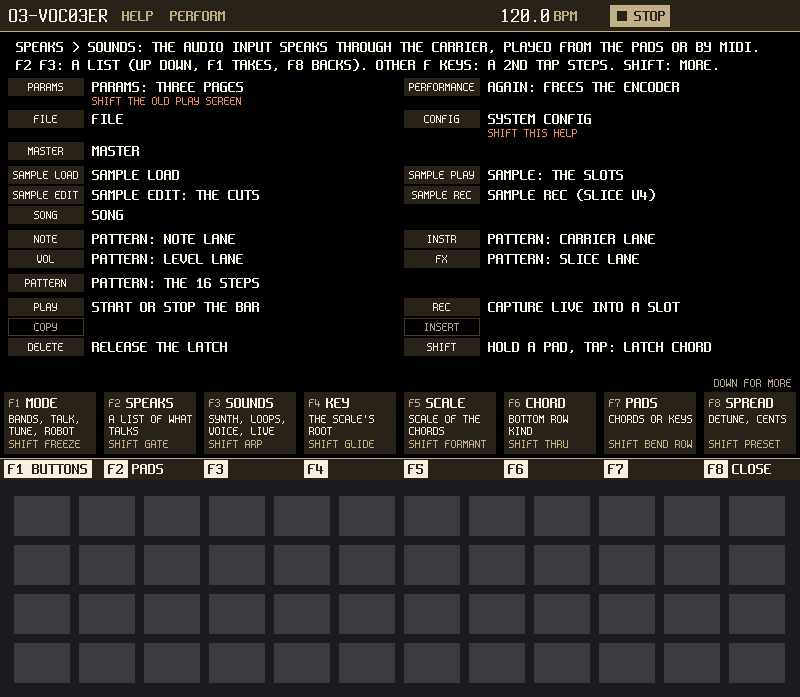
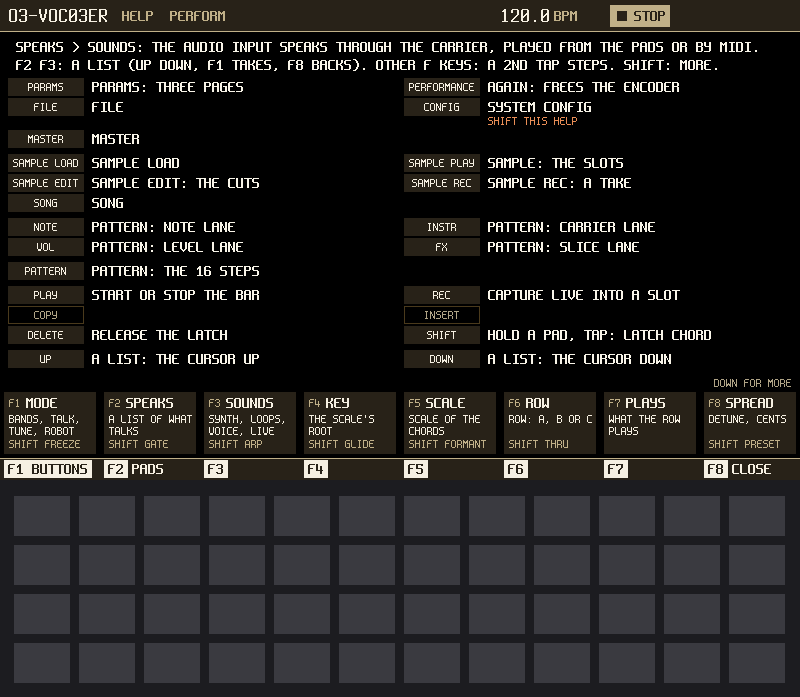
docs: the pads layout in the manual and UI-DESIGN, the manual's PERFORM image (Q9)

diff --git a/app/src/sample_rec_screen.cpp b/app/src/sample_rec_screen.cpp
@@ -455,7 +455,7 @@ void SampleRecScreen::help(const app::Context& ctx, app::Help& h) const noexcept
     }
   }
   h.summary = "REC ARMS AT THE NEXT BAR LINE; REC AGAIN OR THE LENGTH ENDS IT AT A BAR.\n"
-              "THE TAKE LOOPS WHERE AFTER SAYS. THE PADS PLAY CHORDS UNDER IT.";
+              "THE TAKE LOOPS WHERE AFTER SAYS. THE PADS PLAY PERFORM'S LAYOUT.";
   h.fkey[0] = "THE INPUT SOURCE";
   h.fkey[1] = "INPUT GAIN";
   h.fkey[2] = "FREE, 1 TO 8 BARS";
@@ -655,7 +655,7 @@ void SampleRecScreen::draw(app::Context& ctx, ui::Renderer& r, const ui::Rect&) 
   if (note_ != nullptr) {
     r.text(96, 346, note_, Color::Accent, Face::Label);
   }
-  r.text(96, 384, "PADS: THE CHORDS OF PERFORM", Color::TextDim, Face::Micro);
+  r.text(96, 384, "PADS: PERFORM'S LAYOUT", Color::TextDim, Face::Micro);
 }
 
 }  // namespace o3_voc03er

diff --git a/app/src/params_screen.cpp b/app/src/params_screen.cpp
@@ -171,7 +171,7 @@ void ParamsScreen::help(const app::Context& ctx, app::Help& h) const noexcept {
     }
   }
   h.summary = "THREE PAGES OF EIGHT VALUES: CARRIER, SHAPE, TUNE. PARAMS OR UP AND DOWN\n"
-              "TURN THE PAGE. A DIM KEY DOES NOTHING IN THIS MODE. THE PADS PLAY CHORDS.";
+              "TURN THE PAGE. A DIM KEY DOES NOTHING IN THIS MODE. THE PADS PLAY PERFORM'S LAYOUT.";
   for (unsigned i = 0; i < app::kFKeyCount; ++i) {
     h.fkey[i] = pr::focusable(page_, i) ? "TAP: FOCUS, THEN STEP" : nullptr;  // a blank key has no row
   }

diff --git a/docs/UI-DESIGN.md b/docs/UI-DESIGN.md
@@ -79,10 +79,10 @@ with SHIFT all of it; REC always records; PLAY is always the transport.
 | REC | PERFORM: capture (section 2). SAMPLE REC: start the take at the bar, again to stop at the bar. SAMPLE and SAMPLE EDIT: arm the selected slot (SAMPLE REC opens armed). PATTERN: write arm, the pads record into the step under the playhead | all but the lists |
 | COPY | PATTERN: copies the step under the cursor (SHIFT: the whole pattern). SAMPLE EDIT: copies the slot, sample and cuts, to the next empty slot (F1 confirms) | PATTERN, SAMPLE EDIT |
 | INSERT | PATTERN: pastes the copied step at the cursor, the rest moving right (SHIFT: pastes the pattern). SAMPLE EDIT: inserts a cut at the cursor | PATTERN, SAMPLE EDIT |
-| DELETE | What the cursor is on: PATTERN the step (SHIFT: the pattern); SAMPLE EDIT the cut at the cursor (SHIFT: the slot's sample, F1 confirms); PERFORM the latched chord; SAMPLE every sounding slice (SHIFT: and the latched chord); SAMPLE REC the take just made; the lists nothing, dimmed in HELP | as listed |
-| SHIFT | Held: with a pad latches it (a chord stays while the hands leave); with the encoder coarse steps; with DELETE, COPY, INSERT their whole-object form; with CONFIG HELP. Four combinations and the kit's two, no more | everywhere |
-| UP / DOWN | Which: the slot (SAMPLE, SAMPLE EDIT, SAMPLE REC), the row (FILE, SAMPLE LOAD, SONG), the page (PARAMS, MASTER); on PERFORM the chord type of the bottom row (section 7); on PATTERN the octave (PERFORM's and SAMPLE's) | everywhere |
-| LEFT / RIGHT | Where: the octave of the keys or the chord grid (PERFORM, SAMPLE, PATTERN); the cursor's step (PATTERN); the previous or next cut (SAMPLE EDIT); the take's length (SAMPLE REC); a page of rows (the lists). Held, they repeat (`repeat_buttons`) | everywhere |
+| DELETE | What the cursor is on: PATTERN the step (SHIFT: the pattern); SAMPLE EDIT the cut at the cursor (SHIFT: the slot's sample, F1 confirms); PERFORM the latched pad; SAMPLE REC the take just made; the lists nothing, dimmed in HELP | as listed |
+| SHIFT | Held: on PERFORM, with a pad latches it (a note or chord stays while the hands leave); on SAMPLE, SHIFT + F1 is ROW; with the encoder coarse steps; with DELETE, COPY, INSERT their whole-object form; with CONFIG HELP. Four combinations and the kit's two, no more | everywhere |
+| UP / DOWN | Which: the slot (SAMPLE, SAMPLE EDIT, SAMPLE REC), the row (FILE, SAMPLE LOAD, SONG), the page (PARAMS, MASTER); on PERFORM only a picker's cursor; on PATTERN the octave (PERFORM's and SAMPLE's) | everywhere |
+| LEFT / RIGHT | Where: the octave of the pads (PERFORM, SAMPLE, PATTERN); the cursor's step (PATTERN); the previous or next cut (SAMPLE EDIT); the take's length (SAMPLE REC); a page of rows (the lists). Held, they repeat (`repeat_buttons`) | everywhere |
 | Encoder | The latched F value; in a list the row; in SAMPLE EDIT the cursor, a sample fine, SHIFT coarse (a 64th of the sample) | everywhere |
 
 ## 4. The screens
@@ -94,7 +94,7 @@ explains it: a row for every button the screen answers (a button with no row dra
 
 Left, SPEAKS: the source chip (LIVE with its name, or SLOT n), a vertical IN meter with a CLIP lamp, the capture chip ("REC: CAPTURE MIC > SLOT 2").
 Middle: the voiceprint with the MODE word over it. Right, SOUNDS: the carrier chip, the chord being played in big type ("Dm7", "C5") with its
-notes as blue tiles, the OUT meter. Under all of it a drawing of the pads as they are now: the chord grid or the keys, with the octave.
+notes as blue tiles, the OUT meter. Under all of it a drawing of the pads as they are now: the layout's rows A, B and C and the controls row, with the octave.
 
 - F1 MODE (BANDS, TALK, TUNE, ROBOT) · F2 SPEAKS (LIVE, SLOT 1 to 4) · F3 SOUNDS (SYNTH, NOISE, LIVE, SLOT 1 to 4) · F4 KEY · F5 SCALE · F6 ROW
   (A, B or C: the pad row F7 sets, section 7) · F7 PLAYS (what that row plays, section 7) · F8 by mode: BANDS SPREAD (the synth's unison), TALK QUALITY, TUNE SPEED.
@@ -116,14 +116,16 @@ notes as blue tiles, the OUT meter. Under all of it a drawing of the pads as the
 Left: the four slots as a column (the selected framed: name, length, 0.5X / 1X / 2X, FWD / REV, the side it is on in that side's ink). Middle:
 the selected slot's overview waveform with its cuts, the play line moving, the sounding slices lit. Right: SOUNDS as on PERFORM, the chord.
 
-- F1 CHORD (the same value as PERFORM's F6; MODE stays on PERFORM and PARAMS) · F2 SIDE (SPEAKS, SOUNDS, NONE: which picker this slot goes to; the pickers of PERFORM see the same thing) · F3 SPEED (0.5X, 1X, 2X)
+- F1 PLAYS (what the chosen row plays, PERFORM's PLAYS values; SHIFT + F1 ROW chooses A or B; MODE stays on PERFORM and PARAMS) · F2 SIDE (SPEAKS, SOUNDS, NONE: which picker this slot goes to; the pickers of PERFORM see the same thing) · F3 SPEED (0.5X, 1X, 2X)
   · F4 DIR (FWD, REV) · F5 LOOP (the whole slot plays round, from the bar: ON, OFF) · F6 TRIG (GATE: a slice stops at the pad's release; ONE SHOT:
   to its end) · F7 CHOKE (ON: a new slice of this slot cuts the one sounding; OFF: they overlap) · F8 LEVEL (-24 to +12 dB). UP / DOWN the slot.
-- **Pads, the split.** The top two rows (pads 0 to 23) are slices 1 to 24 of the selected slot. The bottom two rows are the chord grid's two
-  lower rows (the 12 roots as triads and as sevenths, section 7) or, with PADS = KEYS, a two-octave keyboard. A slice held with a chord pad is the
-  gesture of the instrument: the slice sings that chord. SHIFT + a chord pad latches it so one hand plays slices over it. The split, not a
-  toggle, because the two things are played together; a toggle would cost a press per phrase. The octave or the chord row moves with LEFT / RIGHT.
-- LEDs: a slice that exists `kLedDim`, the one sounding `kLedOn`, the SLICE lane's `kLedMid` on its step; the chord rows as section 7. An empty
+- **Pads, the split.** The top two rows (pads 0 to 23) are slices 1 to 24 of the selected slot. The bottom two rows (pads 24 to 47) play PERFORM's
+  layout rows A and B (section 7), at PERFORM's octave, through PERFORM's audition entry like PATTERN's palette; a pad sounds while it is held
+  and a layout change or leaving the screen lets the notes go. A slice held with a layout pad is the gesture of the instrument: the slice sings
+  that note or chord; there is no latch on this screen. The split, not a toggle, because the two things are played together; a toggle would
+  cost a press per phrase. F1 sets the row SHIFT + F1 chose (the row flashes), or, with a layout pad held, that pad's row. LEFT / RIGHT is the octave.
+  Pad 24 maps to audition id 0 and so on: the entry's 24 ids hold the 24 pads without widening.
+- LEDs: a slice that exists `kLedDim`, the one sounding `kLedOn`, the SLICE lane's `kLedMid` on its step; the layout rows as on PATTERN's palette (root low, scale dim, held on, dark while ROW flashes). An empty
   slot: the top rows dark and the screen says "EMPTY: SAMPLE REC OR SAMPLE LOAD".
 - Polyphony: four slice voices in all, the four loop readers (section 8). A fifth press takes the oldest, with the reader's 64-sample level
   ramp, so it cannot click. CHOKE ON (the default) gives a slot one voice, the sliced-vocal feel.
@@ -138,11 +140,11 @@ so what was sung is heard at once.
 - F1 SOURCE (LINE, LEFT, RIGHT, MIC LOW, MIC HIGH, RADIO, USB; a line source starts at gain 0) · F2 GAIN · F3 LENGTH (FREE, 1, 2, 4, 8 BARS; also
   LEFT / RIGHT) · F4 AFTER (the side the slot takes: SPEAKS, SOUNDS, NONE) · F5 AUTOPLAY (ON, OFF) · F6 MONITOR (the kit's: the dry input to the output while
   recording) · F7 SLOT (1 to 4; also UP / DOWN) · F8 blank. DELETE discards the take.
-- Pads: the chord grid or the keys, so the carrier is played while recording (the take is the input, not the output). While recording the whole
+- Pads: PERFORM's layout (section 7), so the carrier is played while recording (the take is the input, not the output). While recording the whole
   grid pulses `kLedLow` on the beat (`PadLeds::blink`), the one place the LEDs do that.
 
 Built in U4a. DELETE empties the slot in the unit (Rec 2 CLEAR, then back to 0), so every screen sees it empty; in a take it throws the take away.
-Built in U4b. No progress bar: LoopStatus has no play position, so the middle shows the slot name, length, state and side. F2 SIDE moves the slot (it leaves the other side first); it refuses only an empty slot or a route `allowed` rejects, and says why. F1 shares PERFORM's chord kind; LEFT/RIGHT is the octave; SHIFT and DELETE latch and release as on PERFORM. Only pads of the lower two rows reach the chord; F6 and F7 came in U5b.
+Built in U4b. No progress bar: LoopStatus has no play position, so the middle shows the slot name, length, state and side. F2 SIDE moves the slot (it leaves the other side first); it refuses only an empty slot or a route `allowed` rejects, and says why. The pads play PERFORM's layout (section 7); LEFT/RIGHT is the octave; SHIFT and DELETE latch and release as on PERFORM. F6 and F7 came in U5b.
 A refused AFTER leaves the slot on no side and the screen says which side holds it; AUTOPLAY OFF places nothing; a slot already on a side just plays
 again. Leaving the screen cancels an armed take and stops a running one at the bar, on no side. F2, F3, F6 and F7 step on a second tap, F5 on every tap.
 
@@ -150,7 +152,7 @@ again. Leaving the screen cancels an armed take and stops a running one at the b
 
 The overview waveform across the screen, tall, the cuts as marks numbered 1 to 24, the trim as two brackets, the cursor a bright line with its
 time under it. The encoder moves the cursor; LEFT / RIGHT jump cut to cut; INSERT makes a cut at the cursor, DELETE removes the one at it. A pad
-of the top rows auditions that slice through the vocoder with the chord of the bottom rows (the same split as SAMPLE).
+of the top rows auditions that slice through the vocoder, and a pad of the bottom rows plays PERFORM's rows A and B (the same split as SAMPLE).
 
 - F1 CUT EVEN (OFF, 8, 16, 24 equal parts; turning re-cuts) · F2 CUT BEATS (OFF, 4, 8, 16 a bar, on the bars the take was recorded on; dimmed for
   a loaded WAV) · F3 CUT HITS (0 to 100: the sensitivity of the onset detector, 0 off; the cuts follow it as it turns; the first tap from 0 lands at 50, then by 10, and 100 wraps to 0) · F4 START and F5 END (the
@@ -172,10 +174,9 @@ one is refused on the strip, with the slot as it was.
 ### PATTERN
 
 Sixteen steps as cells with four lanes under each (NOTE, CARRIER, LEVEL, SLICE), the playhead in the voice ink, the cursor framed, the lane in
-force highlighted, the pattern letter A to H large at the left. The NOTE lane holds a chord (root, type, voicing, from the grid) or single notes
-(from the keys). Pads: rows 2 and 3, columns 0 to 7, are steps 1 to 16 (two rows of eight; `kLedDim` with content, `kLedMid` the cursor, `kLedOn`
+force highlighted, the pattern letter A to H large at the left. The NOTE lane holds a chord (root, type, voicing) or a single note, whatever PERFORM's rows A and B play there (section 7). Pads: rows 2 and 3, columns 0 to 7, are steps 1 to 16 (two rows of eight; `kLedDim` with content, `kLedMid` the cursor, `kLedOn`
 the playhead); columns 8 to 11 of those rows are patterns A to H (`kLedMid` the current, `kLedOn` the one playing); rows 0 and 1 are the lane's
-palette: NOTE the chord grid's two lower rows or two octaves of keys, CARRIER six pads (FOLLOW, SYNTH, NOISE, SLOT 1 to 4), LEVEL 24 steps of
+palette: NOTE PERFORM's rows A and B (row 0 is A, row 1 is B, as they play), CARRIER six pads (FOLLOW, SYNTH, NOISE, SLOT 1 to 4), LEVEL 24 steps of
 velocity, SLICE slices 1 to 24. A palette pad writes into the cursor's step and moves the cursor on (the tracker's step entry); a step pad moves
 the cursor there (SHIFT + step pad: a rest in the lane).
 On LEVEL the palette pad also sounds the cursor step's note or chord at that level while held (a rest sounds nothing); on SLICE it fires the
@@ -291,7 +292,7 @@ is refused whole and the app's state is untouched. The CRC does not cover the mi
 
 Left out of `VALU`, as actions or as state another chunk owns: Freeze (9), the loops' Rec, Play and Role (10..21), their Speed, Dir and Level (22..33; in `SLOT`),
 CarSrc and ModSrc (34, 47; in `ROUT`), the R n Start, Len and Trig (49..60), Load (61). The largest file is 2008 bytes (`kProjectFileMax` is 2560).
-Not in the file: the WAV data, the octave, tempo and swing, the current pattern and cursor, the chord kind and the pads' mode.
+Not in the file: the WAV data, the octave, tempo and swing, the current pattern and cursor. (STAT 1.1 keeps the pads layout; the 1.0 chord kind, pads mode and bend row are written derived from it.)
 
 ### SONG (U9)
 
@@ -302,9 +303,9 @@ from the cursor while this screen is up. Before U9 the one-line screen of sectio
 
 ## 5. The skin
 
-**OR NOIR, the only skin, chosen by the maintainer on 2026-11-06 ("me gusta el OR NOIR", "solo ese, por defecto").** Its idea, frames, tokens and costs are the OR NOIR section of `docs/ui-skins.html`, which replaces 5.1, the token table of 5.2 and the look of 5.3 below: gold speaks, chrome sounds, on a black wall of round LEDs, the voiceprint as sixteen upright columns of dots. There is no skin byte and no seam: the screens draw OR NOIR directly. What still stands below: the rule of the two inks, what each mode's voiceprint shows and where its values come from, the grid and type of 5.4, the budget of 5.5, the memory of 5.6. Text uses `>`, since the faces hold U+0020 to U+007E only. F6 on PERFORM is CHORD (section 4), whatever the pictures show.
+**OR NOIR, the only skin, chosen by the maintainer on 2026-11-06 ("me gusta el OR NOIR", "solo ese, por defecto").** Its idea, frames, tokens and costs are the OR NOIR section of `docs/ui-skins.html`, which replaces 5.1, the token table of 5.2 and the look of 5.3 below: gold speaks, chrome sounds, on a black wall of round LEDs, the voiceprint as sixteen upright columns of dots. There is no skin byte and no seam: the screens draw OR NOIR directly. What still stands below: the rule of the two inks, what each mode's voiceprint shows and where its values come from, the grid and type of 5.4, the budget of 5.5, the memory of 5.6. Text uses `>`, since the faces hold U+0020 to U+007E only. F6 on PERFORM is ROW and F7 PLAYS (sections 4 and 7), whatever the pictures show.
 
-**The F row, by the maintainer on 2026-11-06.** The metal is gold, not steel: pale gold, gold and brass (`Fx` is brass). Each key's name sits on a gold bar under its value window, y 453 to 478, right above the physical key, so the name is below y 452 and the kit's strip hides it for about 3 seconds at a time, while the value stays. That frees 15 px above: the chord grid's cells are 27 px high, with their names in the Label face, and one line under the grid, y 403, holds the pads' gestures on the left and, on the right, what the F key under the encoder does. This replaces the F row of 5.4 and the picture in `docs/ui-skins.html`.
+**The F row, by the maintainer on 2026-11-06.** The metal is gold, not steel: pale gold, gold and brass (`Fx` is brass). Each key's name sits on a gold bar under its value window, y 453 to 478, right above the physical key, so the name is below y 452 and the kit's strip hides it for about 3 seconds at a time, while the value stays. That frees 15 px above: the pad drawing's cells are 27 px high, with their names in the Label face, and one line under the grid, y 403, holds the pads' gestures on the left and, on the right, what the F key under the encoder does. This replaces the F row of 5.4 and the picture in `docs/ui-skins.html`.
 
 ### 5.1 Point of view
 
@@ -417,7 +418,7 @@ page CARRIER; SPREAD is also PERFORM's F8 in BANDS, because it is the one that i
 
 ## 7. Chords from the pads
 
-The first thing a new user reaches. KEY and SCALE are the TUNE parameters, so the chords and the pitch correction agree by construction.
+The first thing a new user reaches, and the one place the pads are explained: the other sections point here. KEY and SCALE are the TUNE parameters, so the chords and the pitch correction agree by construction.
 
 **The layout** (Q6, `pads_logic.h`, `docs/REVIEW-2026-11-11.md` section 3): the 12 columns are the 12 roots, C at the left of the octave LEFT / RIGHT chose.
 Row 0 is the controls on every layout (below). Rows 1, 2 and 3 are A, B and C, each with a PLAYS value, and what a pad plays is
@@ -434,9 +435,9 @@ they had are kept) and a grid value on either splits them, the other row getting
 C is held, F7 changes that pad's row at once and F6's row moves to it. SHIFT + F7 is empty. Each row that plays notes sits one octave above
 the playing rows under it (`row_octave`, the joined piano counting as one row). The project keeps the layout (STAT 1.1); a 1.1 file loads
 through it alone, and saving also writes the 1.0 chord kind, pads mode and bend row derived from it (`legacy_fields`) for an older build.
-The old F6 CHORD, `kind_for_row` rule (issue #4) and PADS = KEYS are gone from PERFORM; SAMPLE still uses them until Q7.
+The old F6 CHORD, `kind_for_row` rule (issue #4) and PADS = KEYS are gone from every screen: SAMPLE plays rows A and B (Q7), SAMPLE REC, SAMPLE EDIT and PARAMS the whole layout.
 
-**Voicing** (PARAMS, page SHAPE): CLOSE (as stacked), OPEN (the third up an octave), WIDE (across two octaves), SMOOTH (the inversion nearest the chord before:
+**Voicing** (PARAMS, page SHAPE): CLOSE (as stacked), OPEN (the third up an octave), WIDE (across two octaves), SMOOTH (the inversion nearest the chord before, within the pad's octave:
 voice-leading for free, the default). The chord's notes become `note_on`s to the unit, up to five, inside its eight voices.
 
 **LEDs**: roots in the scale `kLedDim`, roots out of it off (visible by their silence in the row), the held or latched pad `kLedOn`, the other
@@ -462,7 +463,7 @@ under a held vowel is the classic robot glide. The unit gets one parameter, `Ben
 
 ### The SHIFT row of PERFORM
 
-Asked by the maintainer on 2026-11-06 ("mete todos"): FORMANT, FREEZE, GATE, ARP, GLIDE and presets, with no new pad modes, since the maintainer wants few. They live on a second row of the F keys, on both F7 values. While SHIFT is held the F row shows this row, names and values. SHIFT + an F key focuses its value, the same rule as the plain row: the encoder moves it, a second SHIFT + tap steps it, and the row stays shown while one of its values has the focus.
+Asked by the maintainer on 2026-11-06 ("mete todos"): FORMANT, FREEZE, GATE, ARP, GLIDE and presets, with no new pad modes, since the maintainer wants few. They live on a second row of the F keys. While SHIFT is held the F row shows this row, names and values. SHIFT + an F key focuses its value, the same rule as the plain row: the encoder moves it, a second SHIFT + tap steps it, and the row stays shown while one of its values has the focus.
 
 | Key | Value | What it does |
 |---|---|---|
@@ -549,8 +550,8 @@ No manual, the unit just switched on. PERFORM comes up: LIVE > SYNTH, BANDS, lay
 boot, section 11).
 
 **To a vocoded chord.** Play something into the line jack, or pick MIC on MASTER and speak: the IN meter moves and the voiceprint flickers in the voice ink; nothing sounds yet, the carrier has no note. Press
-one pad of the bottom row: a C major chord speaks your words; the screen says "C" and lights its three notes; the next pad to the right is D minor.
-Zero button presses. SHIFT + that pad latches it; both hands are free for the microphone. The top row is the robot fifth.
+one pad of row B: a C major chord speaks your words; the screen says "C" and lights its three notes; the next pad to the right is D minor.
+Zero button presses. SHIFT + that pad latches it; both hands are free for the microphone. Row A above it plays the single note; a row set to POWER is the robot fifth.
 
 **To a recorded loop as the carrier.** REC (1): the chip reads "CAPTURE MIC > SLOT 1, 2 BARS"; sing; the take ends at the bar by itself, the slot
 plays looped and takes SPEAKS (the side that held LIVE), so you hear it through the chord you hold. F3 SOUNDS (2), DOWN to SLOT 1 (3), F3 again
@@ -558,7 +559,7 @@ plays looped and takes SPEAKS (the side that held LIVE), so you hear it through 
 visible, for a take of a chosen length into a chosen slot.)
 
 **To slices.** SAMPLE EDIT (1): the take across the screen. F2 CUT BEATS (2), turn to 16 (3): sixteen marks. SAMPLE PLAY (4): the top two rows
-light; a pad plays its slice through the chord held on the bottom rows; hold a slice and change the chord under it. F2 SIDE is already SPEAKS;
+light; a pad plays its slice through the note or chord held on the bottom rows (PERFORM's rows A and B); hold a slice and change the pad under it. F2 SIDE is already SPEAKS;
 on PERFORM F3 SOUNDS to NOISE makes the same slices whisper. Four presses; a WAV instead of a take is SAMPLE LOAD, UP / DOWN, F1 OPEN, three more.
 
 **To an external carrier.** On PERFORM, F3 SOUNDS: the picker lists SYNTH, NOISE, LIVE "MIC (SAME AS SPEAKS)", SLOT 1. With the microphone on

diff --git a/docs/MANUAL.md b/docs/MANUAL.md
@@ -34,7 +34,7 @@ to go back). It is one instrument built on one idea: **something speaks, somethi
 
 ![PERFORM in BANDS with a chord held: the voice on the left, the voiceprint in the middle, the synth and its chord on the right](manual/img/hero.png)
 
-*PERFORM while a chord is held. SPEAKS is at the left, the voiceprint in the middle, SOUNDS at the right, the pads' chord grid under them.*
+*PERFORM while a chord is held. SPEAKS is at the left, the voiceprint in the middle, SOUNDS at the right, a drawing of the pads under them.*
 
 What you can do with it:
 
@@ -85,9 +85,9 @@ time, the live source is LINE with its gain at 0, so a quiet source is not boost
 **2. Check that the voice arrives.** Play something into the jack, or press MASTER and pick MIC on F1 and speak. The IN meter at the left
 moves and the voiceprint in the middle flickers. Nothing sounds yet: the synth has no note.
 
-**3. Press one pad on the bottom row.** A chord speaks your words. The screen names the chord and lights its notes. The next pad to the
-right is another chord. Hold the pad while you sing. The wide pad row at the bottom is one chord per key: C major, D minor, and so on,
-all in the key and scale that F4 and F5 say.
+**3. Press one pad of the middle row of the three.** A chord speaks your words. The screen names the chord and lights its notes. The next
+pad to the right is another chord. Hold the pad while you sing. That row, B, is one chord per key: C major, D minor, and so on, all in the key
+and scale that F4 and F5 say. The row above it, A, plays single notes, and the pads layout (section 4, PERFORM) says how to change both.
 
 **4. Free your hands.** Hold a chord pad and press SHIFT: the chord is latched and keeps sounding after you let go. A new latch replaces
 the old one. DELETE lets it go. (SHIFT first and then a pad latches nothing.)
@@ -140,21 +140,32 @@ now.
 
 *PERFORM in TALK: the voiceprint is now a smooth curve, the shape of the mouth.*
 
-**The pads.** The top pad row is always the controls: OCT- and OCT+, VOL- and VOL+, ROOT- and ROOT+, MOD (adds a little vibrato while
-held) and BND- and BND+ (bend while held). Below it are three rows, A, B and C from the top, and the twelve columns are the twelve roots,
-C at the left. F6 chooses a row and F7 chooses what it plays:
+**The pads layout.** This is the one place that explains the pads; PATTERN, SAMPLE, SAMPLE REC, SAMPLE EDIT and PARAMS play the same layout and
+point here. The top pad row is always the controls: OCT- and OCT+, VOL- and VOL+, ROOT- and ROOT+, MOD (adds a little vibrato while held) and
+BND- and BND+ (bend while held). Below it are three rows, A, B and C from the top, and the twelve columns are the twelve roots, C at the left, in
+the key and scale of F4 and F5. Each row has a PLAYS value. F6 ROW chooses the row (the row's pads flash once) and F7 PLAYS chooses what it
+plays, in this order:
+
+- **Rows A and B:** NOTE, TRIAD, 7TH, OPEN, POWER, PIANO NOTE, PIANO TRIAD, PIANO 7TH, PIANO OPEN, PIANO POWER, OFF.
+- **Row C:** NOTE, TRIAD, 7TH, OPEN, POWER, FORMANT, BEND, OFF.
+
+A tap on F7 steps on and wraps round; the encoder stops at the ends.
 
 - NOTE: one note per pad. TRIAD, 7TH (the seventh chord), OPEN (root, fifth, ninth: open and airy) and POWER (root, fifth, octave: the
-  classic robot fifth): a chord per pad.
-- PIANO NOTE, PIANO TRIAD, PIANO 7TH, PIANO OPEN and PIANO POWER (rows A and B only): a piano. A is the black keys and B the white keys;
-  choosing one on either row sets both, and choosing a plain value on one of them splits the piano again.
+  classic robot fifth): a chord per pad, the one the scale gives on that root.
+- The PIANO values (rows A and B only): a piano. A is the black keys and B the white keys, each key a note or a chord of the kind named;
+  choosing a piano value on either row sets both, and choosing a plain value on one of them splits the piano again.
 - FORMANT and BEND (row C only): FORMANT is a strip of semitones: a tap sets the formant and nothing is held. BEND is the pitch-bend strip:
   the middle pair is zero, each pad outwards is a semitone, and it springs back when you let go.
 - OFF: the row is dark and silent.
 
-The default is A NOTE, B TRIAD and C FORMANT. Each row that plays notes sits an octave above the one under it, so a note on row B is
-one octave over the same pad on row C. SHIFT tapped while a pad is held latches it, on any row that plays notes; DELETE lets it go. The
-screen names each row's value beside it. LEFT and RIGHT move the octave.
+The default is A NOTE, B TRIAD and C FORMANT. **Each row that plays notes sits one octave above the playing rows under it**, so a note on row
+B is one octave over the same pad on row C, and a joined piano counts as one row. LEFT and RIGHT move the octave of all of them. VOICING SMOOTH
+keeps to the pad's own octave: a progression along a row still moves smoothly, and a row higher sounds higher.
+
+**The shortcut:** while you hold a pad of A, B or C, F7 changes that pad's row at once, and F6 follows it. SHIFT tapped while a pad is held
+latches it, on any row that plays notes; DELETE lets it go. The screen names each row's value beside it. **The layout is saved with the
+project** (section 9) and F4 NEW puts it back to the default.
 
 ![PERFORM with a piano on rows A and B: two keys held, the control row drawn above the piano](manual/img/perform-keys.png)
 
@@ -169,6 +180,7 @@ source and a slot have no pitch of their own to move.
 
 PARAMS shows three pages of eight values on the F keys, with the voiceprint small above so you see each change. Press PARAMS again, or
 UP and DOWN, to change page.
+The pads play PERFORM's layout here too.
 
 ![PARAMS, page CARRIER: the synth's eight values](manual/img/params.png)
 
@@ -180,7 +192,7 @@ UP and DOWN, to change page.
 VOICING: how a chord's notes are laid out.*
 
 VOICING has four settings. CLOSE stacks the notes as written. OPEN lifts the third an octave. WIDE spreads the chord over two octaves.
-SMOOTH, the default, picks the arrangement nearest the chord before, so a progression moves without jumps.
+SMOOTH, the default, picks the arrangement nearest the chord before, within the pad's octave, so a progression moves without jumps.
 
 ![PARAMS, page TUNE](manual/img/params-tune.png)
 
@@ -242,7 +254,7 @@ It plays no synth. SPEED is how fast it pulls: at the fastest it steps from note
 *ROBOT: BANDS with a fast leveller after it. The voice is flattened and hard.*
 
 **ROBOT.** BANDS with a fast leveller after it. Loud and soft syllables come out at about the same level, which gives the flat, mechanical
-voice. Hold a fifth, or a pad of the POWER row (the top row while F6 is on TRIAD), for the classic robot sound.
+voice. Hold a fifth, or set a row to POWER (F6 then F7) and press one of its pads, for the classic robot sound.
 
 ## 6. Samples and slices
 
@@ -258,6 +270,7 @@ or it can sound, so a recording can be the voice or the instrument.
 
 SAMPLE REC makes a take with every setting visible. REC starts it at the next bar line (at once if the transport is stopped); REC again ends
 it at the bar. LENGTH can end it by itself.
+The pads play PERFORM's layout (section 4, PERFORM), so you can play the synth under the take.
 
 | Key | What it does |
 |---|---|
@@ -276,10 +289,12 @@ bar and throws it away. DELETE with no take running empties the slot.
 
 ![SAMPLE: four slots on the left, the selected slot's waveform and cuts, the slices on the pads](manual/img/sample.png)
 
-*SAMPLE: the top two pad rows are slices 1 to 24 of the slot. The bottom rows are the chords. One slice is sounding.*
+*SAMPLE: the top two pad rows are slices 1 to 24 of the slot. The bottom two rows play PERFORM's rows A and B. One slice is sounding.*
 
-The top two pad rows are the slices of the selected slot. The bottom two rows are chords. **Hold a slice and a chord together, and the
-slice sings that chord.** Holding a chord pad and pressing SHIFT latches it, so one hand can play slices over it. Four slices can sound at once.
+The top two pad rows are the slices of the selected slot. The bottom two rows play PERFORM's layout (section 4, PERFORM), row A on the upper one and row B
+on the lower one, at PERFORM's octave (LEFT and RIGHT move it). A pad sounds while it is held, and
+leaving the screen lets everything go. **Hold a slice and a layout pad together, and the slice sings that note or chord.** There is no latch on
+this screen: the hand holds the pad. Four slices can sound at once.
 
 A slice pad plays its own cut once, from its start cut to its end cut, and then stops. A new hit on it starts it again from its start cut.
 A slice turns the slot's whole loop off, so LOOP reads OFF until F5 starts it again; a slice from PATTERN's SLICE lane or from MIDI does
@@ -287,7 +302,8 @@ the same.
 
 | Key | What it does |
 |---|---|
-| F1 CHORD | The chord kind, shared with PERFORM |
+| F1 PLAYS | What the row plays, as on PERFORM's F7. It sets the row that SHIFT + F1 chose (A at first), or, while you hold a pad of the bottom rows, that pad's row |
+| SHIFT + F1 ROW | The other row, A or B: its pads go dark for a moment |
 | F2 SIDE | Which side the slot is on: SPEAKS, SOUNDS or NONE |
 | F3 SPEED | 0.5X, 1X or 2X |
 | F4 DIR | FWD or REV |
@@ -296,7 +312,7 @@ the same.
 | F7 CHOKE | ON (the default): a hit fades out the slot's sounding slice and starts the new one. OFF: up to four slices overlap |
 | F8 LEVEL | -24 to +12 dB |
 
-UP and DOWN pick the slot. DELETE silences every sounding slice.
+UP and DOWN pick the slot. The layout is PERFORM's: F1 PLAYS and SHIFT + F1 ROW change the same values F7 and F6 do there.
 
 ### SAMPLE EDIT
 
@@ -305,8 +321,8 @@ UP and DOWN pick the slot. DELETE silences every sounding slice.
 *SAMPLE EDIT: the take across the screen, cuts as numbered marks, trim as brackets.*
 
 SAMPLE EDIT shows the take across the whole screen. Cuts are marks numbered 1 to 24. The encoder moves the cursor; LEFT and RIGHT jump
-from cut to cut. INSERT makes a cut at the cursor, DELETE removes one. A pad of the top rows plays that slice with the chord of the bottom
-rows.
+from cut to cut. INSERT makes a cut at the cursor, DELETE removes one. A pad of the top rows plays that slice; the bottom rows play
+PERFORM's rows A and B.
 
 | Key | What it does |
 |---|---|
@@ -351,9 +367,10 @@ pad writes into the step under the cursor and moves the cursor on; with one or m
 On the VOL lane a palette pad also sounds the step's note or chord at that level while it is held (a rest sounds nothing); on the FX lane it
 fires that slice of the slot SPEAKS is on, as SAMPLE's pads do (nothing with SPEAKS on LIVE or above the slice count). INSTR stays silent.
 
-On the NOTE lane the palette is PERFORM's rows A and B as they play (F6 chooses A or B here, F7 what it plays). **Hold SHIFT and press
-a chord pad to write its root alone, a single note**: a bass line of sixteen notes is sixteen presses, with SHIFT held. With a piano
-on PERFORM's rows A and B the palette is the piano, and no SHIFT is needed.
+On the NOTE lane the palette is PERFORM's rows A and B as they play (the pads layout, section 4, PERFORM; F6 chooses A or B here, F7 what it plays).
+A pad writes what PERFORM would play there: a note, a chord of the row's kind, a piano key, or nothing when the row is OFF. **For a bass line of
+single notes, set the row to NOTE**: sixteen presses are sixteen notes. A palette pad sounds while it is held; SHIFT + a palette pad sounds
+and writes nothing.
 
 | Key | What it does |
 |---|---|
@@ -362,8 +379,10 @@ on PERFORM's rows A and B the palette is the piano, and no SHIFT is needed.
 | F3 LENGTH | 1 to 16 steps |
 | F4 TEMPO | The tempo |
 | F5 VALUE | The cursor step's value in the lane; the encoder edits it |
-| F6 CLR LANE | Clears the lane. F1 confirms |
-| F7 FOLLOW | The cursor rides the playhead |
+| F6 ROW | NOTE lane: which of PERFORM's rows the palette shows, A or B. The row flashes. Dim on the other lanes |
+| F7 PLAYS | NOTE lane: what that row plays (PERFORM's values for rows A and B). Dim on the other lanes |
+| SHIFT + F6 CLR LANE | Clears the lane. F1 confirms |
+| SHIFT + F7 FOLLOW | The cursor rides the playhead |
 | F8 SAVE | Saves the eight patterns to the card (`pattern.o3a`). The project is FILE's: F2 SAVE there |
 
 PLAY starts and stops the transport. COPY copies the step under the cursor; INSERT puts the copy there and moves the steps after it one
